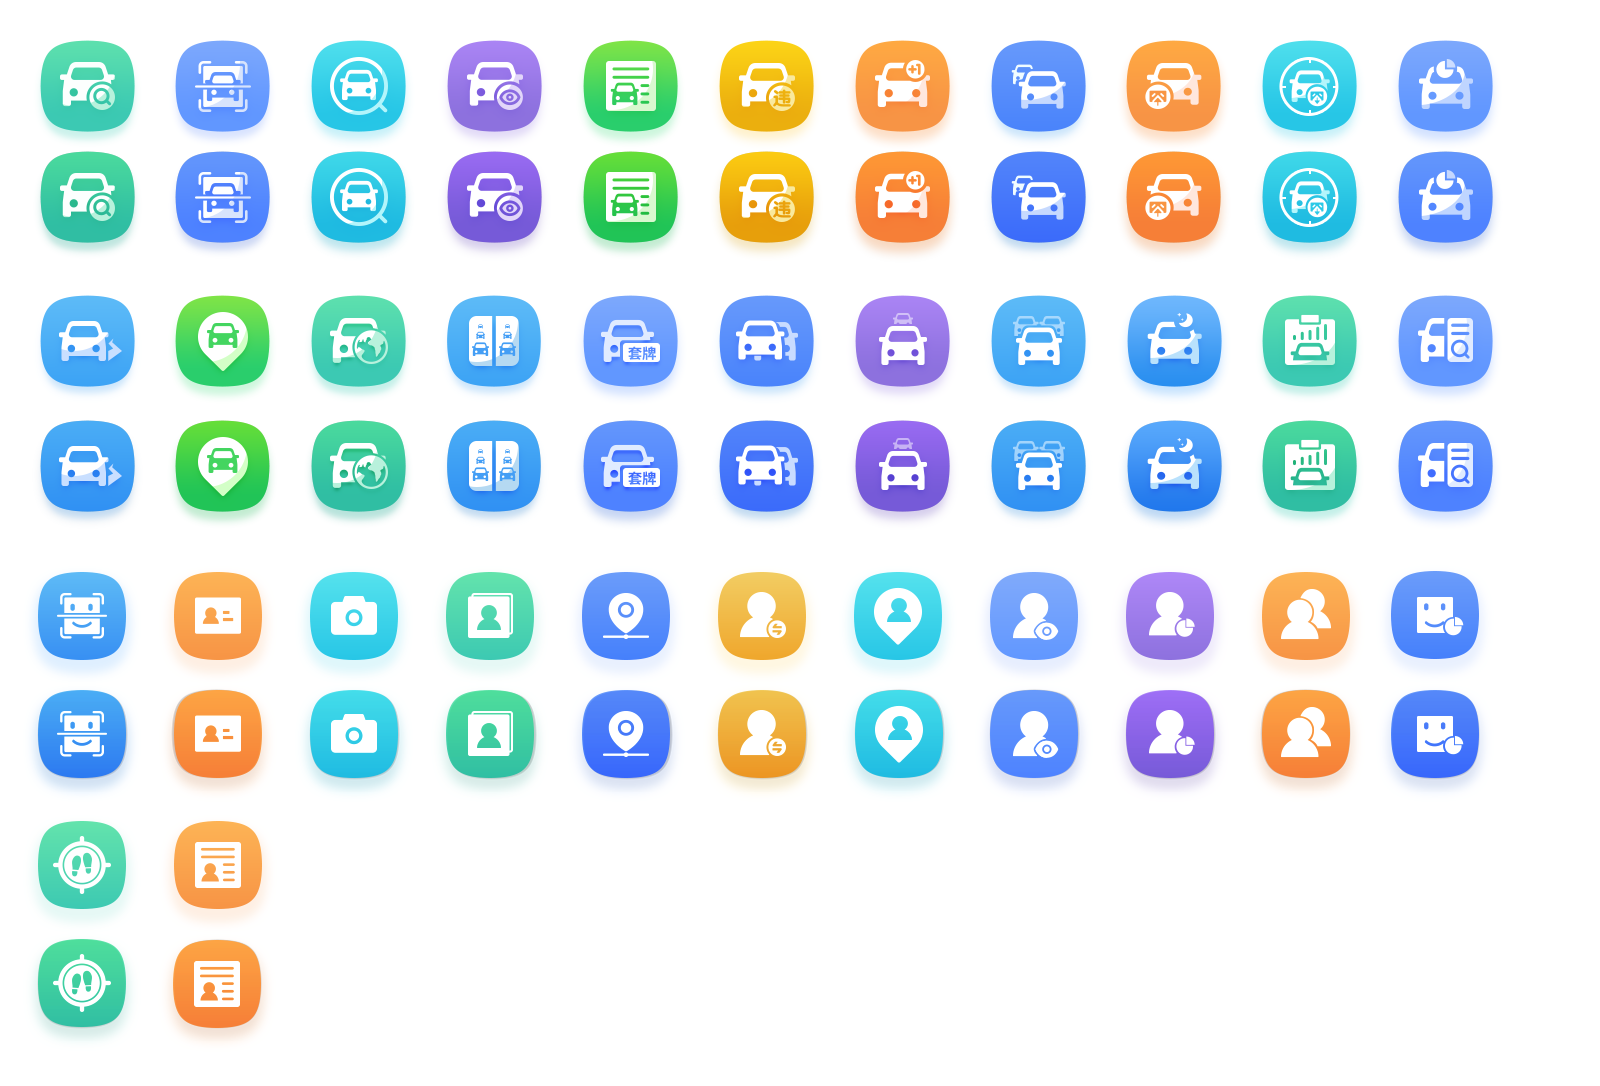
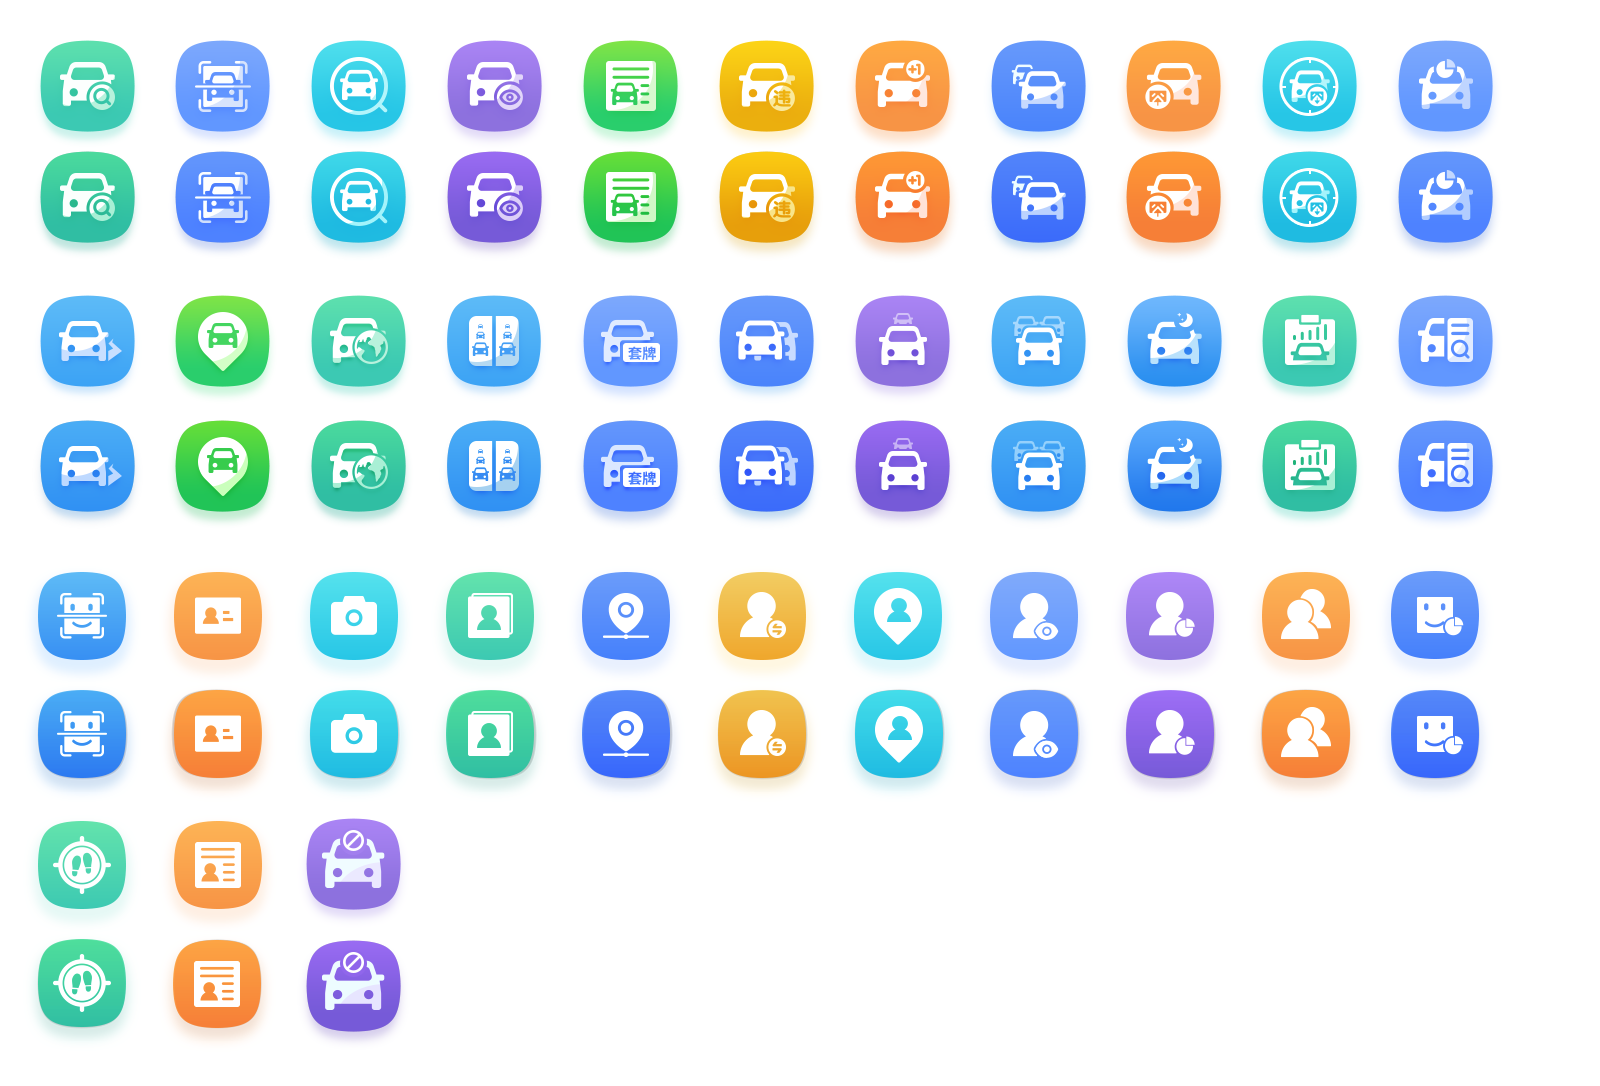
提交

Changed region(s): [[0.1875, 0.7293, 0.25, 0.9724]]

diff --git a/src/assets/css/style.css b/src/assets/css/style.css
@@ -389,6 +389,8 @@
 .vl_icon2_026:hover { background-position: -1259px -417px; }
 .vl_icon2_027 { background-position: -1398px -293px; }
 .vl_icon2_027:hover { background-position: -1397px -417px; }
+.vl_icon2_028 { background-position: -305px -815px; }
+.vl_icon2_028:hover { background-position: -304px -933px; }
 /**人像检索**/
 .vl_icon2_101 { background-position: -23px -566px; }
 .vl_icon2_101:hover { background-position: -22px -683px; }

diff --git a/src/views/index/components/vehicle/menu.vue b/src/views/index/components/vehicle/menu.vue
@@ -96,7 +96,7 @@
           </li>
           <li>
             <router-link :to="{name: 'vehicle_restrict_driving'}">
-              <i class="vl_icon2 vl_icon2_007"></i><span>车辆限行</span>
+              <i class="vl_icon2 vl_icon2_028"></i><span>车辆限行</span>
             </router-link>
           </li>
         </ul>
